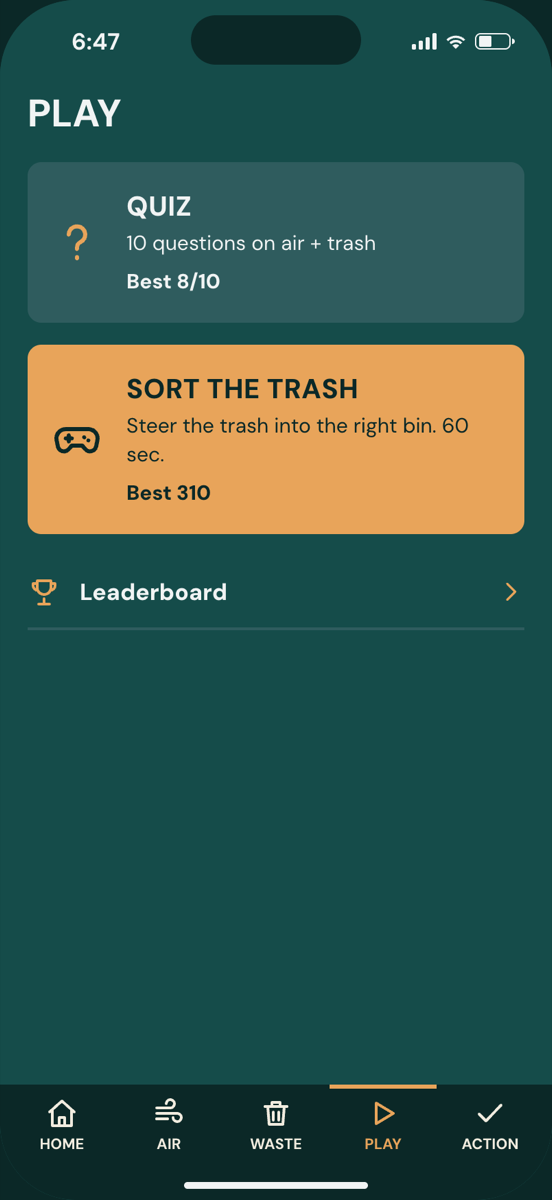
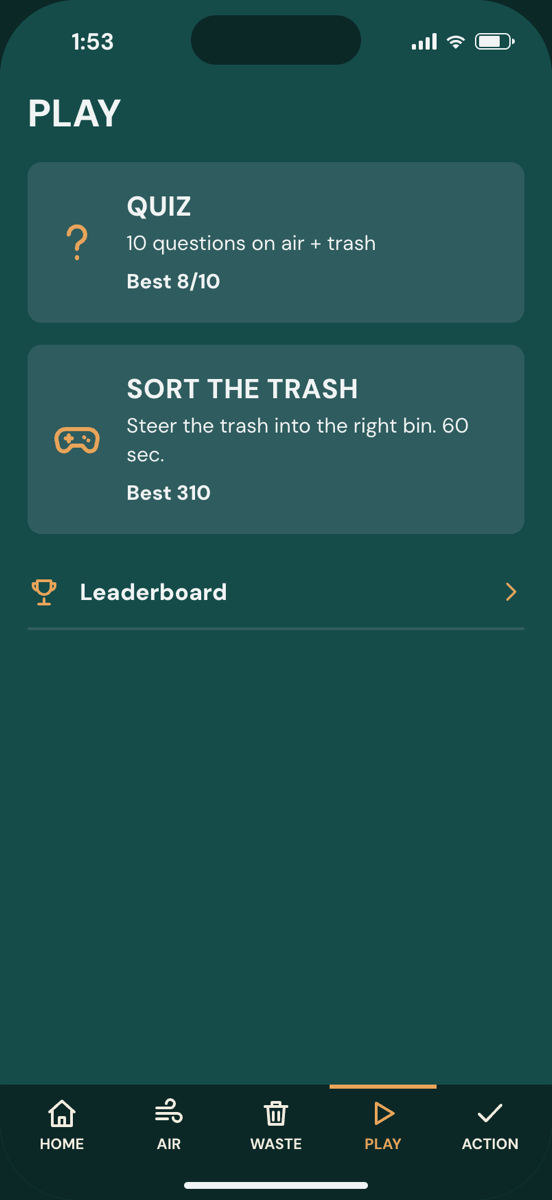
Play: Quiz and Sort the trash buttons are both green

Changed region(s): [[0.0308, 0.2775, 0.9547, 0.4625], [0.1232, 0.0308, 0.2156, 0.0617], [0.8931, 0.0308, 0.9239, 0.0617]]

diff --git a/public/index.html b/public/index.html
@@ -348,7 +348,7 @@
           <span class="play-best">Best <b id="playBestQuiz">–</b></span>
         </button>
         <!-- BUTTON: Game card — opens the sorting Game -->
-        <button class="play-card alt" type="button" data-go="game" aria-label="Play sort the trash">
+        <button class="play-card" type="button" data-go="game" aria-label="Play sort the trash">
           <svg class="play-icon" aria-hidden="true"><use href="#i-game"/></svg>
           <span class="play-name">Sort the trash</span>
           <span class="play-desc">Steer the trash into the right bin. 60 sec.</span>

diff --git a/public/css/styles.css b/public/css/styles.css
@@ -271,8 +271,6 @@ a { color: var(--accent); }
   padding: 18px; border: 0; border-radius: var(--radius); background: var(--card); color: var(--text);
 }
 .play-icon { grid-row: span 3; width: 36px; height: 36px; color: var(--accent); }
-.play-card.alt { background: var(--accent); color: var(--dark); }
-.play-card.alt .play-icon { color: var(--dark); }
 .play-name { font-size: 20px; }
 .play-desc { font-size: 15px; }
 .play-best { font-size: 15px; font-weight: 800; margin-top: 4px; }

diff --git a/public/sw.js b/public/sw.js
@@ -6,7 +6,7 @@
    - /api and Open-Meteo: never cached here (the app handles offline itself).
    Change VERSION when you change the app so old caches are deleted.
    ========================================================================== */
-const VERSION = 'mcca-v16';
+const VERSION = 'mcca-v17';
 const SHELL = [
   './',
   'index.html',
